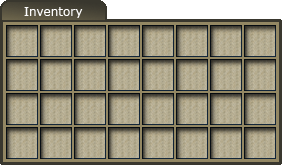
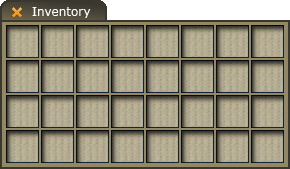
Inventory update

diff --git a/pygamefrontend/inventoryscreen.py b/pygamefrontend/inventoryscreen.py
@@ -9,13 +9,15 @@ class InventoryScreen:
     def __init__(self):
         self.imgloader=imageloader.ImageLoader("data/images.yaml")
         self.image=self.imgloader.loadimage("inventoryframe", False)
+        self.imgsize=self.image.get_size()
         self.font=pygame.font.SysFont("Sans", 14)
+        self.imgoffset=(6,25)
         #
-        self.ts=pygamefrontend.TILESIZE+2 # tilesize
-        self.itemsoffset=(2, 2)
+        self.ts=pygamefrontend.TILESIZE+4 # tilesize
+        self.invsoffset=(0,0)
         self.invsize=(8, 4) # width, height
         self.invsizepix=(self.invsize[0]*self.ts,self.invsize[1]*self.ts)
-        self.invpos=(320-self.invsizepix[0]/2, 240-self.invsizepix[1]/2)
+        self.invpos=(320-self.imgsize[0]/2, 240-self.imgsize[1]/2)
         #
         self.visible=False
         self.inventory=None
@@ -54,8 +56,8 @@ class InventoryScreen:
     def getinvpos(self):
         """get position of the top left corner of area to display
         inventory items"""
-        nx=self.invpos[0]+self.itemsoffset[0]
-        ny=self.invpos[1]+self.itemsoffset[1]
+        nx=self.invpos[0]+self.invsoffset[0]
+        ny=self.invpos[1]+self.invsoffset[1]
         return (nx, ny)
 
     def isunder(self, (mx,my)):
@@ -82,7 +84,8 @@ class InventoryScreen:
 
         #pygame.draw.rect(screen, (128, 128, 128), \
         #    (self.invpos,self.invsizepix), 0)
-        screen.blit(self.image,(self.invsizepix[0]-92, self.invsizepix[1]+13))
+        screen.blit(self.image,(self.invpos[0]-self.imgoffset[0],\
+            self.invpos[1]-self.imgoffset[1]))
         xx=0 #current slot
 
         drawselected=True
@@ -91,8 +94,8 @@ class InventoryScreen:
         for item in self.inventory.slots:
             if item!=None:
                 img=self.imgloader.loadimage(item[0])
-                nx=xx%self.invsize[0]*self.ts+self.getinvpos()[0]
-                ny=xx/self.invsize[0]*self.ts+self.getinvpos()[1]
+                nx=(xx%self.invsize[0])*self.ts+self.getinvpos()[0]
+                ny=(xx/self.invsize[0])*self.ts+self.getinvpos()[1]
                 screen.blit(img, (nx, ny))
                 #draw count
                 txt=self.font.render(str(item[1]), 1, (255, 255, 0))
@@ -100,6 +103,6 @@ class InventoryScreen:
                 #draw selection
                 if xx==self.selected and drawselected:
                     pygame.draw.rect(screen, (255, 255, 0), \
-                        (nx-1, ny-1, self.ts, self.ts), 1)
+                        (nx-1, ny-1, self.ts-3, self.ts-3), 1)
                     drawselected=False
             xx+=1
